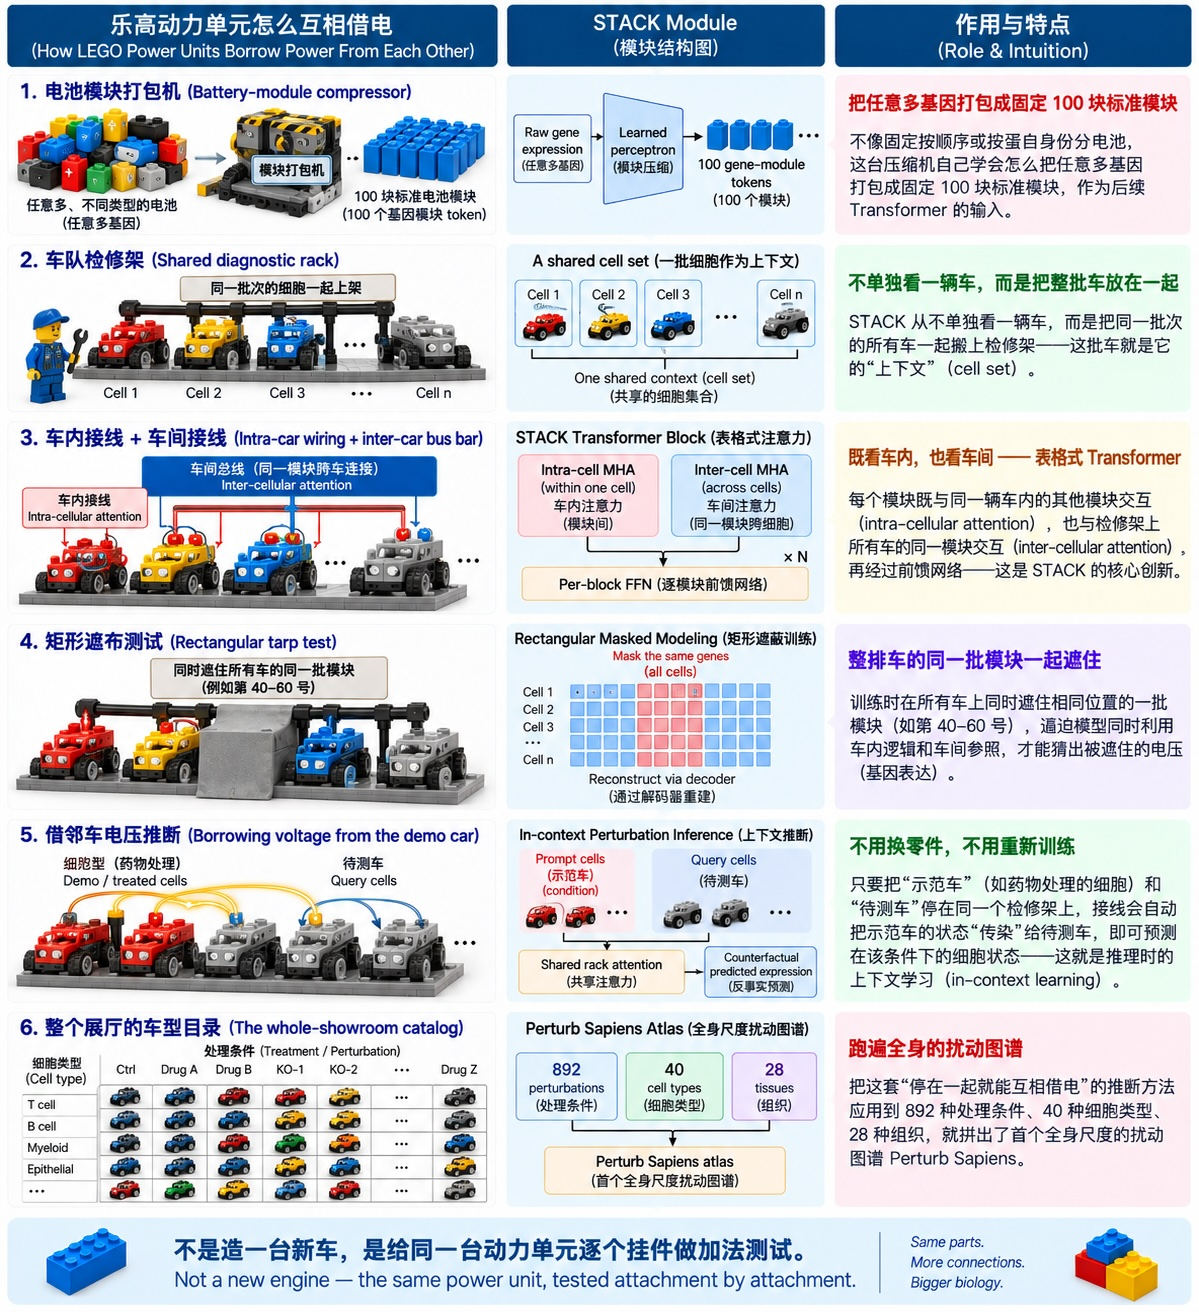
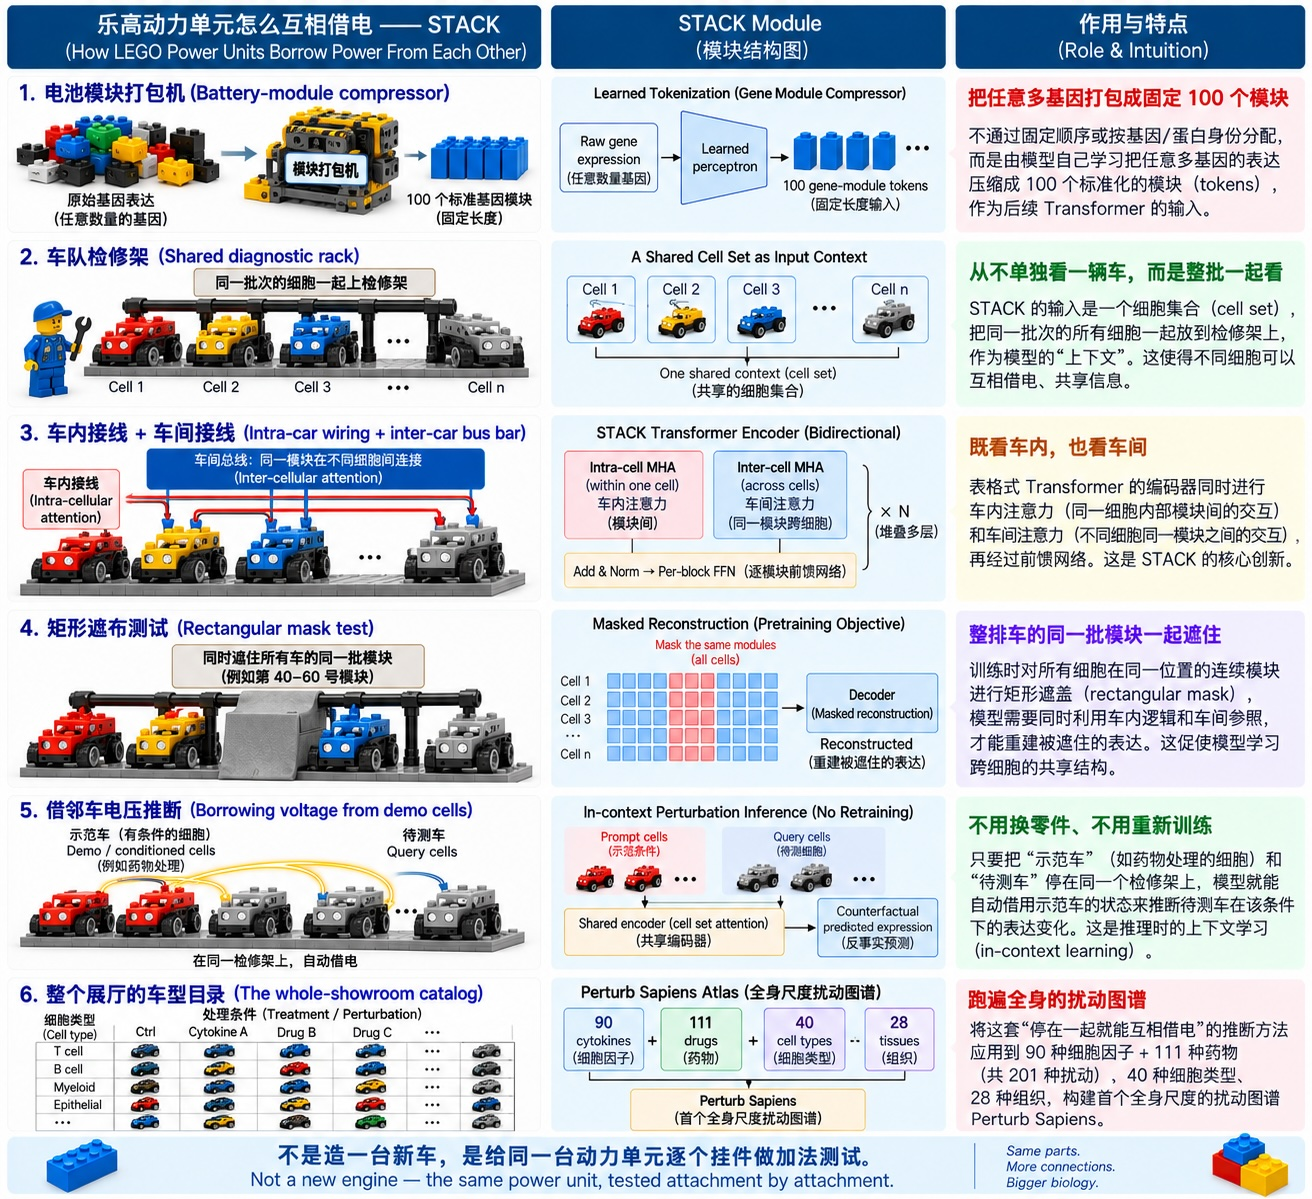
Reclassify STACK as Encoder-Decoder; replace LEGO diagram
STACK was previously filed under Encoder-Only ("Tabular Set Encoder")
and tagged as a non-causal decoder variant. Per the paper's own
definition it is a large-scale encoder-decoder foundation model: a
bidirectional tabular transformer encoder (intra-/inter-cellular
attention) feeding a reconstruction decoder. Moved its subtype-table
row and case-study highlight box from the Encoder-Only section to the
Encoder-Decoder section, updated its tag/description in the
Single-Cell Genomics and comparison tables accordingly, and added an
explicit STACK-rectangular-mask vs. GPT-causal-mask comparison table
to prevent the two "mask" concepts from being conflated.

Also swaps in the corrected LEGO Power Unit diagram for STACK.

Claude-Session: https://claude.ai/code/session_01MNv6sbtbNbcmyD5gQKjjJP

diff --git a/ai4bio-concepts/foundation-models-deep-learning/transformer-architecture.html b/ai4bio-concepts/foundation-models-deep-learning/transformer-architecture.html
@@ -574,7 +574,6 @@
                     <tr><td><strong>Protein LM</strong></td><td>MLM on amino acid sequences</td><td>ESM2, ProtBERT, Ankh</td><td>Structure prediction, function classification</td></tr>
                     <tr><td><strong>Whole-genome</strong></td><td>MLM on overlapping k-mers</td><td>Nucleotide Transformer, HyenaDNA (encoder variant)</td><td>Variant effect, regulatory grammar</td></tr>
                     <tr><td><strong>Protein-embedding tokens</strong></td><td>Predict whether a sampled protein was expressed in the cell</td><td>UCE (Rosen/Roohani et al. 2026, <em>Nature</em>)</td><td>Cross-species zero-shot cell embedding, atlas building</td></tr>
-                    <tr><td><strong>Tabular / set attention</strong></td><td>Rectangular gene-block masking, reconstructed across a whole cell set</td><td>STACK (Dong et al. 2026, bioRxiv)</td><td>In-context perturbation &amp; donor prediction; <em>Perturb Sapiens</em> atlas</td></tr>
                 </tbody>
             </table>
             <div class="highlight-box" style="margin-top:16px;">
@@ -594,32 +593,6 @@
                     rat, chicken, even <em>Drosophila</em> — with no fine-tuning, and this zero-shot embedding
                     space is what powers the paper's 36M-cell Integrated Mega-scale Atlas (IMA).
                 </p>
-            </div>
-            <div class="highlight-box" style="margin-top:16px;">
-                <h4>&#x1F9EC; Case study: STACK's cells-as-context tabular attention</h4>
-                <p style="font-size:.9rem; color:#475569; margin:0 0 8px;">
-                    <strong>STACK</strong> (Dong et al. 2026, bioRxiv, Arc Institute) is pretrained on 149M cells
-                    from scBaseCount, the largest single-cell collection assembled to date. Its tokenizer first
-                    compresses each cell's full gene expression vector into a fixed 100 "gene module tokens"
-                    via a single learned projection — no fixed gene vocabulary, no rank ordering. The real
-                    innovation is the <strong>tabular transformer block</strong>: each layer runs intra-cellular
-                    attention (a cell's 100 tokens attending to each other) <em>and</em> inter-cellular attention
-                    (the same token slot compared across every cell in the batch), so cells are never encoded
-                    in isolation — they're encoded as a table, rows and columns both attending.
-                </p>
-                <p style="font-size:.9rem; color:#475569; margin:0;">
-                    Pretraining masks a rectangular block of genes across the <em>entire</em> cell set at once and
-                    reconstructs it through a probabilistic MLP decoder. That same cross-cell wiring is what
-                    enables in-context learning at inference: concatenate a few "prompt" cells representing a
-                    condition (a drug, a donor) with unlabeled "query" cells, and the query cells' predicted
-                    expression shifts toward that condition with zero fine-tuning — the basis for <em>Perturb
-                    Sapiens</em>, the first whole-organism atlas of perturbed human cells (892 perturbations,
-                    40 cell types, 28 tissues).
-                </p>
-                <figure class="content-figure" style="margin-top:18px;">
-                    <img src="figures/lego-stack-module-mapping.webp" width="1199" height="1312" loading="lazy" decoding="async" alt="Three-column table mapping the LEGO Power Unit to STACK's architecture: a battery-module compressor packs any number of genes into 100 standardized tokens; a shared diagnostic rack holds a whole batch of cells as one context; intra-car and inter-car wiring represent intra-cellular and inter-cellular attention in a tabular transformer block; a rectangular tarp masks the same gene block across every car for pretraining; demo cars showing a treated condition lend their voltage to blank query cars for in-context counterfactual inference; and the whole-showroom catalog represents the Perturb Sapiens atlas across 892 perturbations, 40 cell types, and 28 tissues">
-                    <figcaption><strong>Cars parked together teach each other.</strong> 乐高动力单元怎么互相借电 (How LEGO Power Units Borrow Power From Each Other) vs STACK Module vs 作用与特点 (Role &amp; Intuition) — tokenizer, shared cell-set rack, intra-/inter-cell wiring, rectangular masking, in-context inference, and the Perturb Sapiens catalog, side by side.</figcaption>
-                </figure>
             </div>
         </div>
 
@@ -775,6 +748,7 @@
                     <tr><td><strong>scELMo (concept)</strong></td><td>Control cell profile</td><td>Perturbed cell profile</td><td>Causal perturbation-conditioned decoding</td></tr>
                     <tr><td><strong>AlphaFold2 (partial)</strong></td><td>MSA + pair features</td><td>3D coordinates</td><td>Evoformer encodes; structure module decodes into 3D</td></tr>
                     <tr><td><strong>scPRINT-2</strong> (Kalfon et al. 2026, bioRxiv)</td><td>Noised/masked gene expression + gene &amp; cell metadata</td><td>Denoised expression, cell embedding, counterfactual expression</td><td>Graph-based encoder feeds an "XPressor" head; a decoder conditions on it for imputation and counterfactual (what-if) generation</td></tr>
+                    <tr><td><strong>STACK</strong> (Dong et al. 2026, bioRxiv)</td><td>Cell × gene expression matrix (a whole cell set, rectangular-masked)</td><td>Reconstructed masked expression; counterfactual query-cell expression</td><td>Bidirectional tabular encoder (intra-/inter-cell attention) feeds a reconstruction decoder — no causal mask anywhere</td></tr>
                 </tbody>
             </table>
             <div class="highlight-box" style="margin-top:16px;">
@@ -802,6 +776,48 @@
                 <figure class="content-figure" style="margin-top:18px;">
                     <img src="figures/lego-scprint2-module-mapping.webp" width="1312" height="1199" loading="lazy" decoding="async" alt="Three-column table mapping the LEGO Power Unit build process to scPRINT-2's architecture: a multi-battery input harness with mesh wiring for expression counts, protein sequence, gene location, and multiple cells feeding a graph-based encoder; the motor as the Transformer producing a contextualized representation; a turbocharger attachment (XPressor) splitting output into denoised expression and cell classification via sampling; a trailer hitch and build-arm decoder that assembles a counterfactual car by filling in missing bricks for imputation; and a gymnasium test rig where 42 additive configurations (dropout, classifier size, MVC, XPressor, tokenizer) are switched on and off to find the best-performing combination">
                     <figcaption><strong>Same power unit, tested attachment by attachment.</strong> 乐高动力单元如何拼出 scPRINT-2 (How the LEGO Power Unit Builds scPRINT-2) vs scPRINT-2 Module vs 作用与特点 (Role &amp; Intuition) — multi-battery graph input, motor/Transformer, XPressor turbocharger, decoder build-arm, and the 42-configuration gymnasium test rig, side by side.</figcaption>
+                </figure>
+            </div>
+            <div class="highlight-box" style="margin-top:16px;">
+                <h4>&#x1F9EC; Case study: STACK's mask is not GPT's mask</h4>
+                <p style="font-size:.9rem; color:#475569; margin:0 0 8px;">
+                    <strong>STACK</strong> (Dong et al. 2026, bioRxiv, Arc Institute; pretrained on 149M cells from
+                    scBaseCount) is officially an <strong>encoder-decoder</strong> model, not an encoder-only one.
+                    A learned tokenizer first compresses each cell's expression vector into 100 gene-module
+                    tokens; a <strong>tabular transformer encoder</strong> then runs intra-cellular attention
+                    (a cell's own tokens) and inter-cellular attention (the same token slot compared across every
+                    cell in the set) — fully bidirectional, no causal mask anywhere — before a reconstruction
+                    <strong>decoder</strong> maps the resulting latent representations back to expression space.
+                </p>
+                <p style="font-size:.9rem; color:#475569; margin:0 0 8px;">
+                    The part that's easy to conflate: STACK does use masking and does have a decoder, but neither
+                    is the GPT kind. GPT's causal mask is an <em>information-flow constraint</em> — token 3
+                    physically cannot see tokens 4, 5, 6 because they don't exist yet at that generation step.
+                    STACK's rectangular mask is a <em>corruption objective</em> — a block of genes is hidden
+                    across every cell in the set simultaneously, and the model reconstructs it using every other
+                    visible gene in every cell, in both directions, all at once.
+                </p>
+                <table class="subtype-table" style="margin:10px 0;">
+                    <thead><tr><th></th><th>STACK rectangular mask</th><th>GPT causal mask</th></tr></thead>
+                    <tbody>
+                        <tr><td><strong>Hides</strong></td><td>A subset of input genes</td><td>Future tokens</td></tr>
+                        <tr><td><strong>Purpose</strong></td><td>Reconstruction / representation learning</td><td>Next-token generation</td></tr>
+                        <tr><td><strong>Attention</strong></td><td>Bidirectional, across cells and modules</td><td>Left-to-right only</td></tr>
+                        <tr><td><strong>Decoder type</strong></td><td>Reconstruction decoder</td><td>Autoregressive decoder</td></tr>
+                        <tr><td><strong>Output</strong></td><td>Masked values reconstructed at once</td><td>Token 1 → token 2 → token 3 …</td></tr>
+                    </tbody>
+                </table>
+                <p style="font-size:.9rem; color:#475569; margin:0;">
+                    <strong>LEGO version:</strong> the rectangular tarp in the diagram below covers battery
+                    modules 40–60 on <em>every</em> car at once, and the repair crew reconstructs them from
+                    whatever else is visible — that's STACK. GPT is a different kind of restriction entirely:
+                    it's not covering part of a finished car with a tarp, it's forbidding the engineer building
+                    car 3 from looking at cars 4, 5, and 6 because they haven't been built yet. Same word
+                    ("mask"), two unrelated mechanisms — one is corruption-and-repair, the other is a build order.
+                </p>
+                <figure class="content-figure" style="margin-top:18px;">
+                    <img src="figures/lego-stack-module-mapping.webp" width="1312" height="1199" loading="lazy" decoding="async" alt="Three-column table mapping the LEGO Power Unit to STACK's encoder-decoder architecture: a battery-module compressor learns to pack any number of genes into 100 standardized tokens; a shared diagnostic rack holds a whole cell set as one context; intra-car and inter-car wiring represent intra-cellular and inter-cellular bidirectional attention in a tabular transformer encoder; a rectangular mask covers the same gene modules across every cell for masked-reconstruction pretraining via a decoder; demo cells showing a treated condition lend their state to blank query cells for in-context counterfactual inference with no retraining; and the whole-showroom catalog represents the Perturb Sapiens atlas across cytokine, drug, cell-type, and tissue combinations">
+                    <figcaption><strong>Cars parked together teach each other.</strong> 乐高动力单元怎么互相借电 —— STACK (How LEGO Power Units Borrow Power From Each Other) vs STACK Module vs 作用与特点 (Role &amp; Intuition) — learned tokenization, shared cell-set rack, bidirectional intra-/inter-cell encoder attention, masked-reconstruction pretraining, in-context inference, and the Perturb Sapiens catalog, side by side.</figcaption>
                 </figure>
             </div>
         </div>
@@ -912,7 +928,7 @@
                 <tr><td><strong>scGPT</strong> (Wang 2024, Nature Methods)</td><td><span class="tag tag-decoder">Decoder</span></td><td>CLM + masked gene modeling</td><td>33M cells</td><td>Cell generation, perturbation, multi-omics</td></tr>
                 <tr><td><strong>TranscriptFormer</strong> (2025)</td><td><span class="tag tag-decoder">Decoder</span></td><td>CLM (gene rank order)</td><td>112M cells</td><td>Trajectory inference, generation; RoPE</td></tr>
                 <tr><td><strong>State</strong> (Adduri et al. 2025, Arc Institute)</td><td><span class="tag tag-encoder">Set Encoder</span></td><td>SE: reconstruction; ST: paired perturbation</td><td>167M + 100M cells</td><td>Perturbation response; cell-as-token</td></tr>
-                <tr><td><strong>STACK</strong> (Dong et al. 2026, bioRxiv, Arc Institute)</td><td><span class="tag tag-encoder">Tabular Set Encoder</span></td><td>Rectangular gene masking; intra-/inter-cell attention (non-causal) + MLP decoder</td><td>149M cells (scBaseCount)</td><td>In-context counterfactual perturbation/donor prediction; built <em>Perturb Sapiens</em> atlas</td></tr>
+                <tr><td><strong>STACK</strong> (Dong et al. 2026, bioRxiv, Arc Institute)</td><td><span class="tag tag-encdec">Tabular Encoder-Decoder</span></td><td>Rectangular gene masking across a cell set; bidirectional intra-/inter-cell attention + reconstruction decoder</td><td>149M cells (scBaseCount)</td><td>In-context counterfactual perturbation/donor prediction; built <em>Perturb Sapiens</em> atlas</td></tr>
                 <tr><td><strong>Nicheformer</strong> (2025, Nat Methods)</td><td><span class="tag tag-encoder">Encoder</span></td><td>MLM + spatial masking</td><td>Large spatial + scRNA</td><td>Spatial transcriptomics; niche-aware embeddings</td></tr>
                 <tr><td><strong>UCE</strong> (Rosen/Roohani et al. 2026, Nature)</td><td><span class="tag tag-encoder">Encoder</span></td><td>Masked "was gene expressed?" on ESM2 protein-embedding tokens</td><td>36M cells, 8 species</td><td>Zero-shot cross-species embedding; Integrated Mega-scale Atlas</td></tr>
                 <tr><td><strong>scPRINT-2</strong> (Kalfon et al. 2026, bioRxiv)</td><td><span class="tag tag-hybrid">Encoder + gen. decoder</span></td><td>Denoising (ZiNB) + cell-label + gene-network multitask</td><td>350M cells, 16 organisms</td><td>Expression imputation, counterfactual generation, GRN inference</td></tr>
@@ -962,7 +978,7 @@
                 <tr><td><strong>Best biological task</strong></td><td>Classification, representation, zero-shot scoring</td><td>Generation, simulation, in-context learning</td><td>Seq-to-seq translation, perturbation prediction</td><td>Very long DNA/RNA sequences (&gt;100kb)</td></tr>
                 <tr><td><strong>Complexity</strong></td><td>O(n²) attention</td><td>O(n²) attention</td><td>O(n·m) enc + O(m²) dec</td><td>O(n) or O(n log n)</td></tr>
                 <tr><td><strong>Fine-tuning paradigm</strong></td><td>Append classification head</td><td>Prompt / instruction tuning</td><td>Seq-to-seq fine-tuning</td><td>Same as encoder or decoder</td></tr>
-                <tr><td><strong>Biology models</strong></td><td>Geneformer, ESM2, State, STACK</td><td>scGPT, TranscriptFormer</td><td>T5, Enformer, AlphaFold2 (partial)</td><td>Evo 2, HyenaDNA, Hyena-DNA</td></tr>
+                <tr><td><strong>Biology models</strong></td><td>Geneformer, ESM2, State</td><td>scGPT, TranscriptFormer</td><td>T5, Enformer, AlphaFold2 (partial), STACK</td><td>Evo 2, HyenaDNA, Hyena-DNA</td></tr>
                 <tr><td><strong>Key limitation</strong></td><td>Cannot generate; requires task head</td><td>Left-to-right order assumption may not fit biology</td><td>More complex; slower inference</td><td>Less interpretable; hardware-specific</td></tr>
             </tbody>
         </table>
